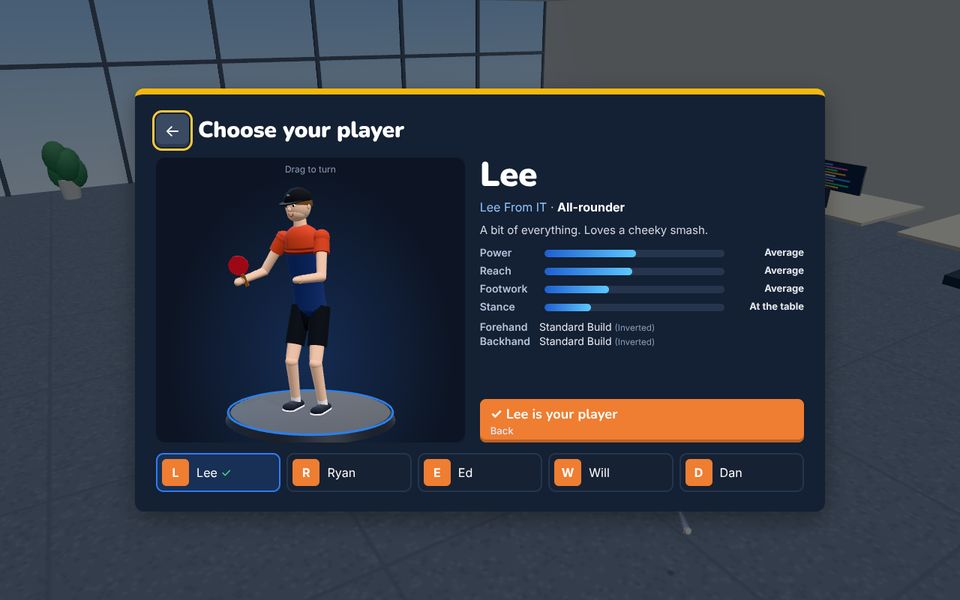
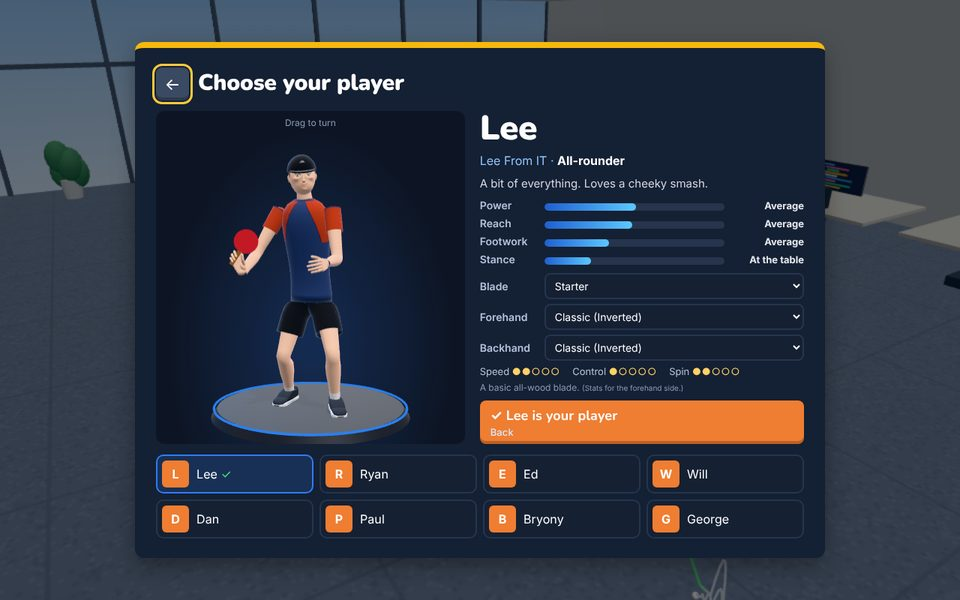
Add Cuesports and refresh MEM Table Tennis screenshots (#3)
* Add Cuesports to the games list

Claude-Session: https://claude.ai/code/session_01QEaTJGrc3Q3FthWFesx3st

* Refresh MEM Table Tennis screenshots with the new player models

Claude-Session: https://claude.ai/code/session_01QEaTJGrc3Q3FthWFesx3st

---------

diff --git a/index.html b/index.html
@@ -150,8 +150,18 @@
           <span class="play">Play ▶</span>
         </div>
       </a>
+
+      <a class="card" href="https://cuesports.vercel.app">
+        <div class="shot multi"><img class="on" src="screenshots/cuesports.jpg" alt="The Cuesports main menu beside a racked pool table" loading="lazy"><img src="screenshots/cuesports-break.jpg" alt="A 9-ball break scattering the rack across the blue cloth" loading="lazy"><img src="screenshots/cuesports-snooker-break.jpg" alt="Breaking off in snooker, with reds spreading round the table" loading="lazy"><img src="screenshots/cuesports-games.jpg" alt="Picking a game, opponent, level and race length on the Play screen" loading="lazy"><img src="screenshots/cuesports-career.jpg" alt="The career ladder, starting with tournaments at The Red Lion pub" loading="lazy"><img src="screenshots/cuesports-three-cushion.jpg" alt="Lining up a three-cushion shot on a pocketless carom table" loading="lazy"><img src="screenshots/cuesports-snooker.jpg" alt="A snooker frame set up from overhead, ball in hand in the D" loading="lazy"></div>
+        <div class="body">
+          <h2>Cuesports</h2>
+          <p class="tag">Pool and snooker with realistic ball physics. Play 9-ball, 10-ball, UK 8-ball, snooker, three-cushion and more against the computer or a friend, sharpen up on a free practice table, and work your way through a career from the pub to the arena.</p>
+          <span class="play">Play ▶</span>
+        </div>
+      </a>
+
       <a class="card soon" href="https://mem-table-tennis.vercel.app">
-        <div class="shot multi"><img class="on" src="screenshots/mem-table-tennis.jpg" alt="MEM Table Tennis title screen in the MEM office, with Lee picked as the player" loading="lazy"><img src="screenshots/mem-table-tennis-gameplay.jpg" alt="A quick match against the AI, the ball arcing over the net with its trail showing" loading="lazy"><img src="screenshots/mem-table-tennis-players.jpg" alt="Choosing your player: a 3D turntable of Lee with his stat bars and rubbers" loading="lazy"><img src="screenshots/mem-table-tennis-world-tour.jpg" alt="The World Tour map, starting with the Department Cup at MEM HQ" loading="lazy"><img src="screenshots/mem-table-tennis-beach.jpg" alt="A rally against Bryony at the offsite beach" loading="lazy"><img src="screenshots/mem-table-tennis-park.jpg" alt="Playing Ed in the City Park venue" loading="lazy"><img src="screenshots/mem-table-tennis-server-room.jpg" alt="Lining up a serve against Ryan in the server room" loading="lazy"><span class="badge">Early access</span></div>
+        <div class="shot multi"><img class="on" src="screenshots/mem-table-tennis.jpg" alt="MEM Table Tennis title screen in the MEM office, with Lee picked as the player" loading="lazy"><img src="screenshots/mem-table-tennis-gameplay.jpg" alt="Bryony serves in the MEM office, the ball arcing over the net towards the target ring" loading="lazy"><img src="screenshots/mem-table-tennis-players.jpg" alt="Choosing your player: a 3D turntable of Lee with his stats, blade and rubbers" loading="lazy"><img src="screenshots/mem-table-tennis-world-tour.jpg" alt="The World Tour map, starting with the Department Cup at MEM HQ" loading="lazy"><img src="screenshots/mem-table-tennis-beach.jpg" alt="Will returns a shot at the offsite beach" loading="lazy"><img src="screenshots/mem-table-tennis-park.jpg" alt="Ed serves in the City Park venue" loading="lazy"><img src="screenshots/mem-table-tennis-server-room.jpg" alt="Ryan serves among the stacked shelves of the Test Bay" loading="lazy"><span class="badge">Early access</span></div>
         <div class="body">
           <h2>MEM Table Tennis</h2>
           <p class="tag">3D table tennis built around spin, pace and office politics. Flick the mouse to loop, chop, smash and hook the ball, take on the AI in quick matches or a World Tour, sharpen up with training drills, or play friends online in singles or doubles.</p>
